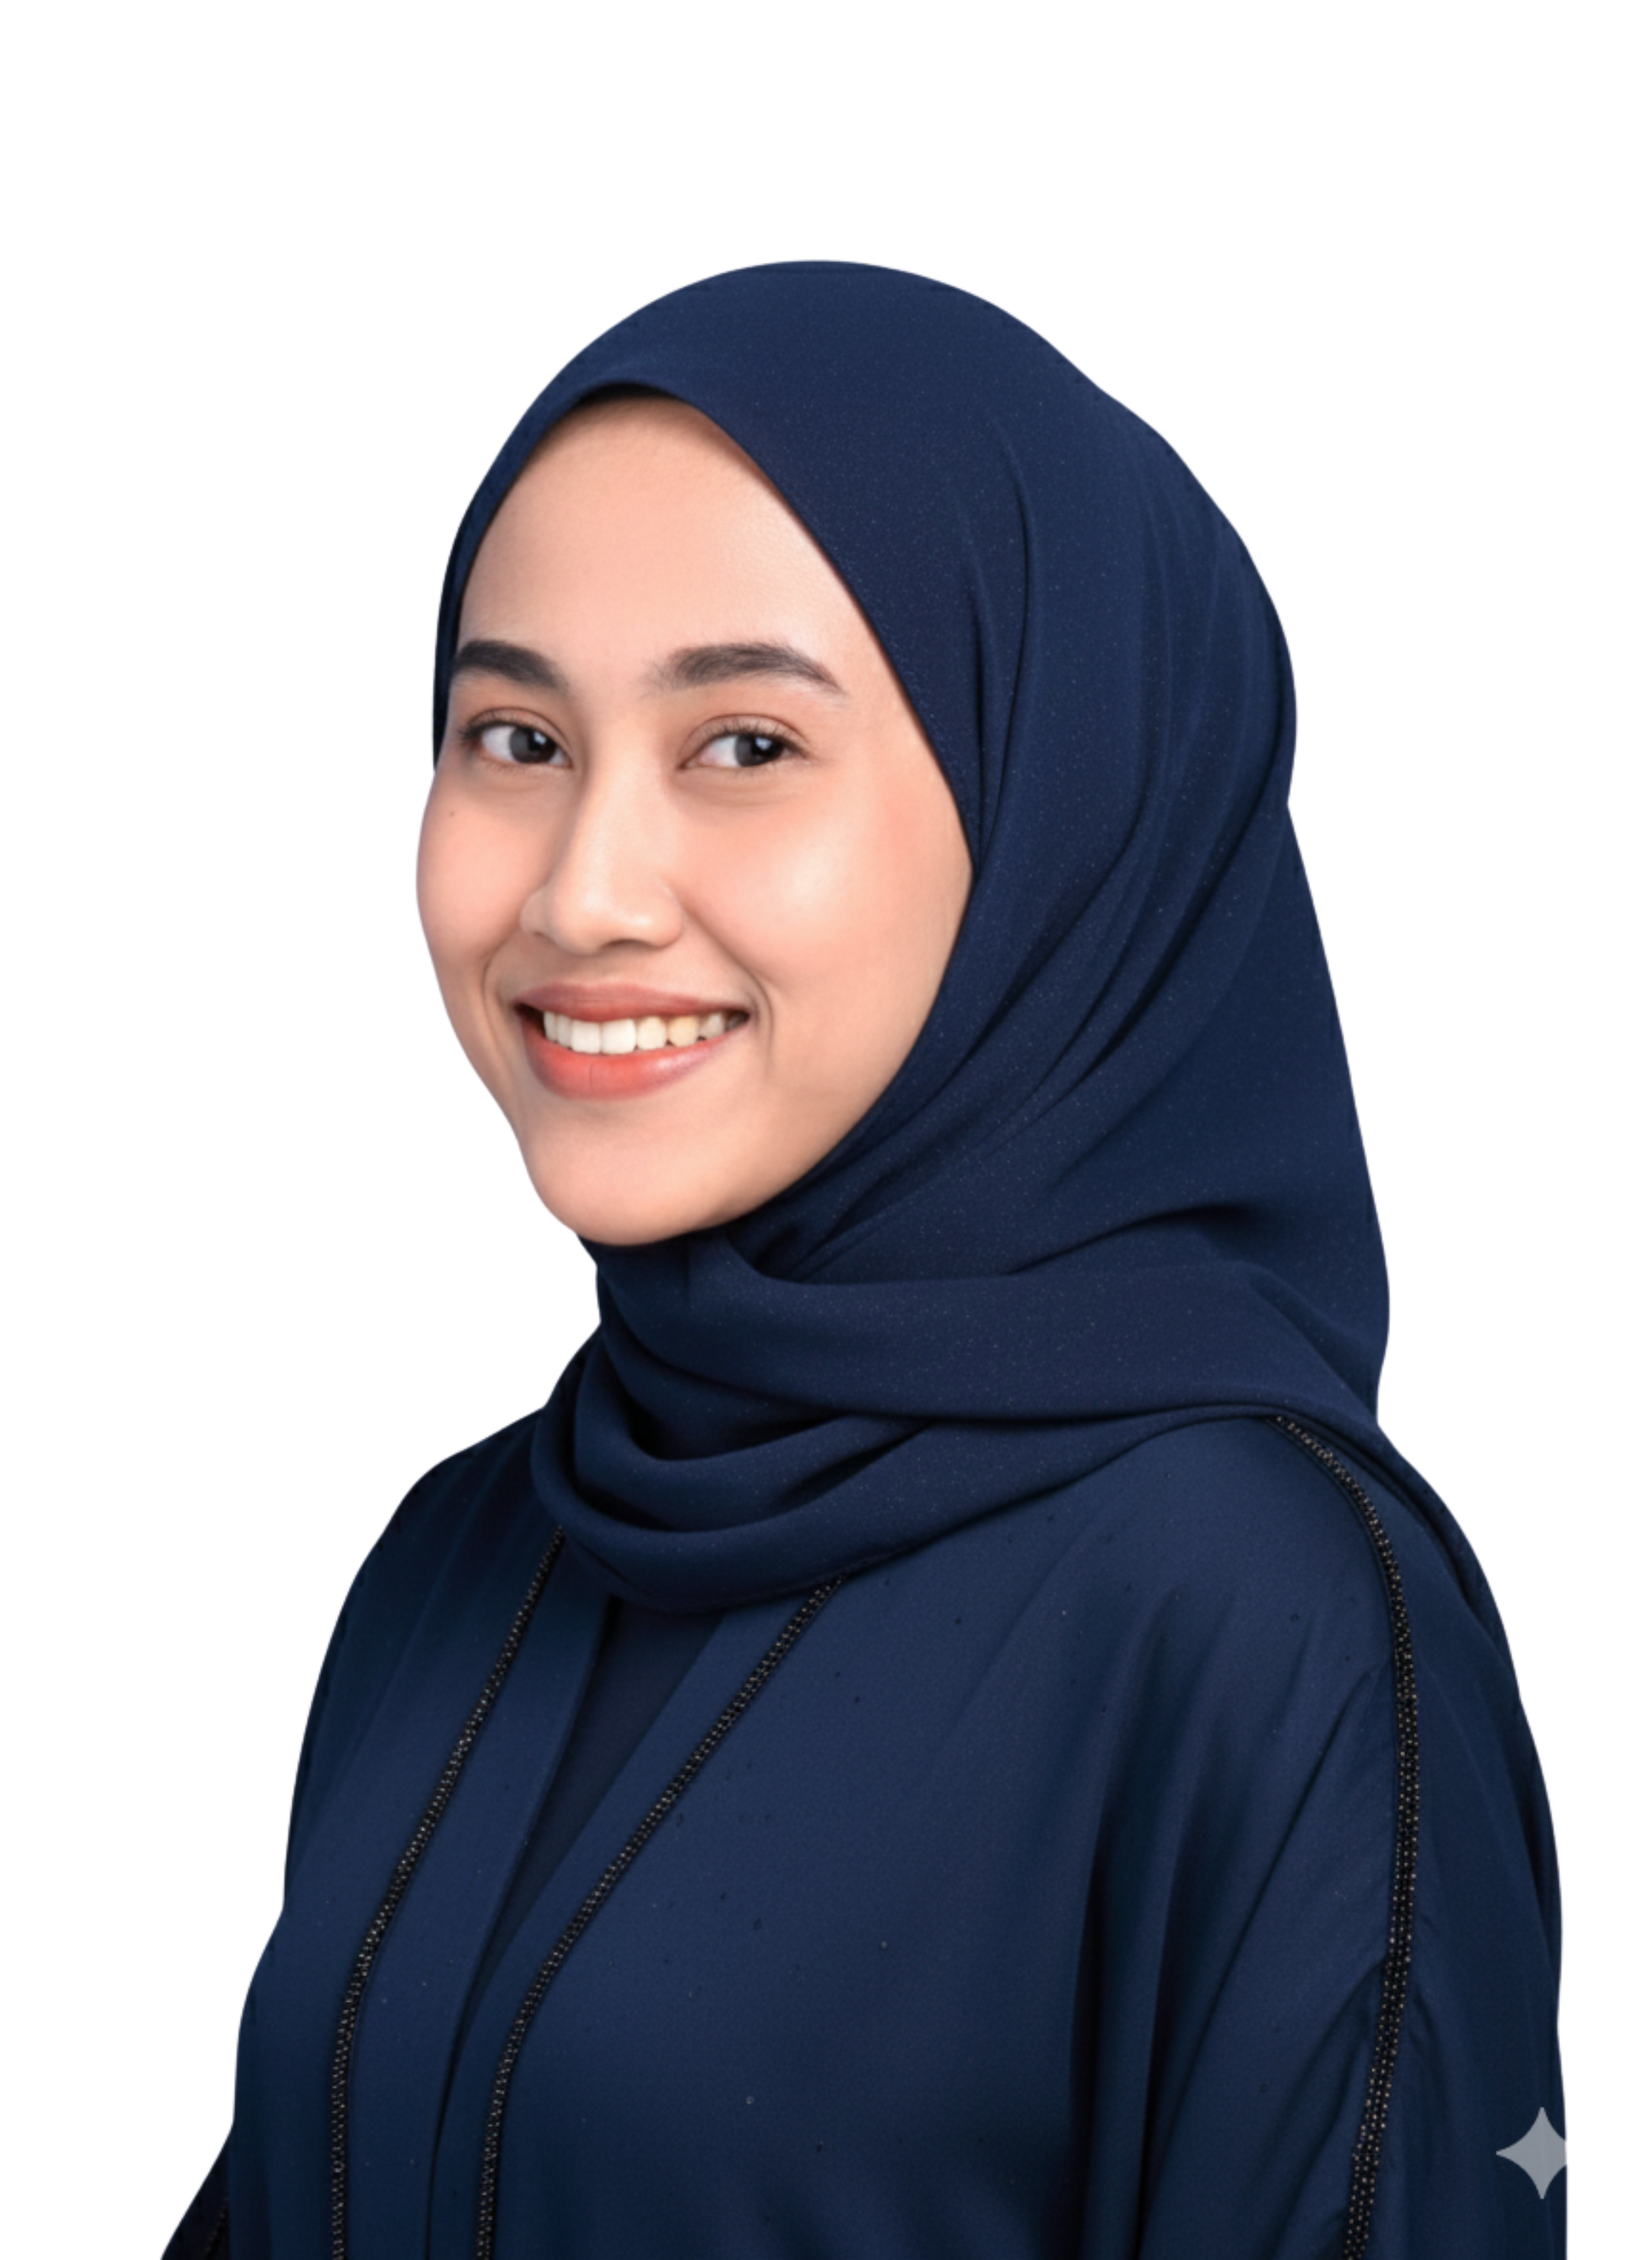
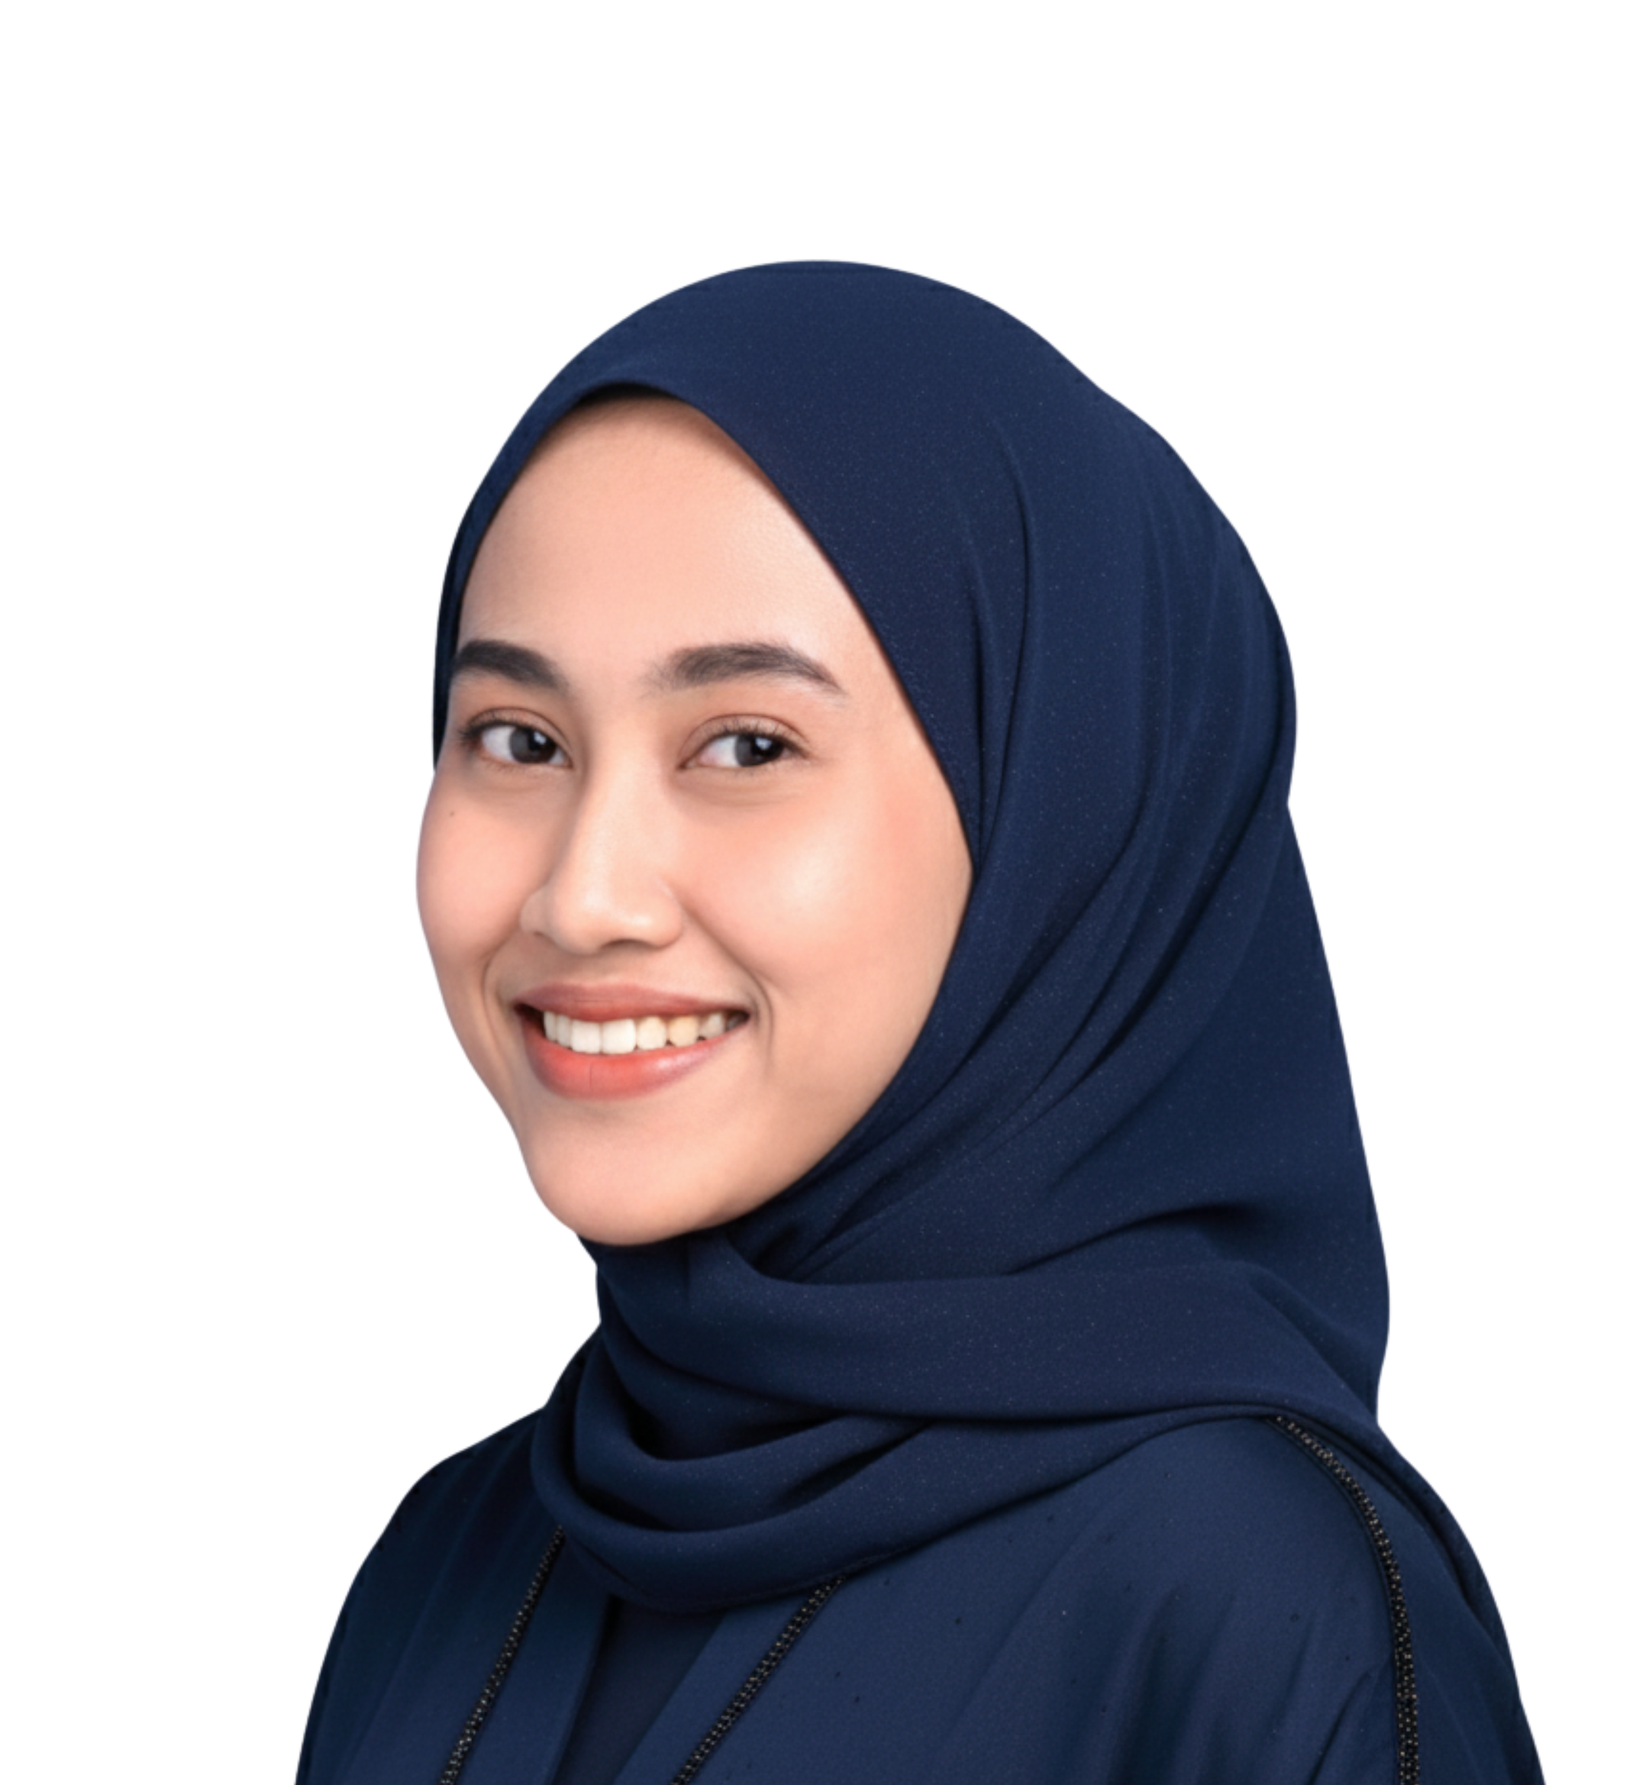
update allif listya

diff --git a/index.html b/index.html
@@ -321,9 +321,9 @@
               <div class="person-body">
                 <div class="person-name">Nur Allif Fathurrahman (Ph.D.)</div>
                 <div class="person-role">Graduate student</div>
-                <div class="person-thesis">Molecular engineering of BCN nanocages for hydrogen storage</div>
+                <div class="person-thesis">Molecular engineering of Boron-Carbon-Nitride (BCN) nanocages for hydrogen storage & catalytic CO2 conversion</div>
                 <div class="person-tags"><span class="tag">Hydrogen</span><span class="tag">BCN</span></div>
-                <div class="person-links"><a href="https://scholar.google.com/citations?user=4-goeZoAAAAJ&hl=en">Scholar</a> · <a href="#">LinkedIn</a></div>
+                <div class="person-links"><a href="https://scholar.google.com/citations?user=4-goeZoAAAAJ&hl=en">Scholar</a> · <a href="https://www.linkedin.com/in/nurallif">LinkedIn</a></div>
               </div>
             </article>
 
